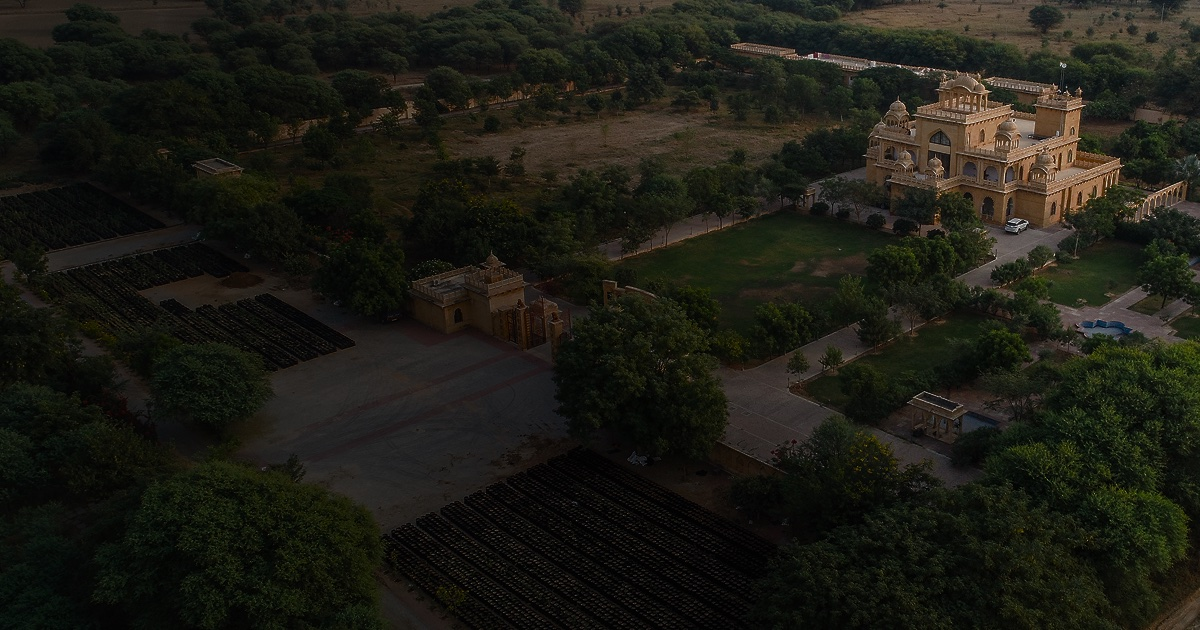
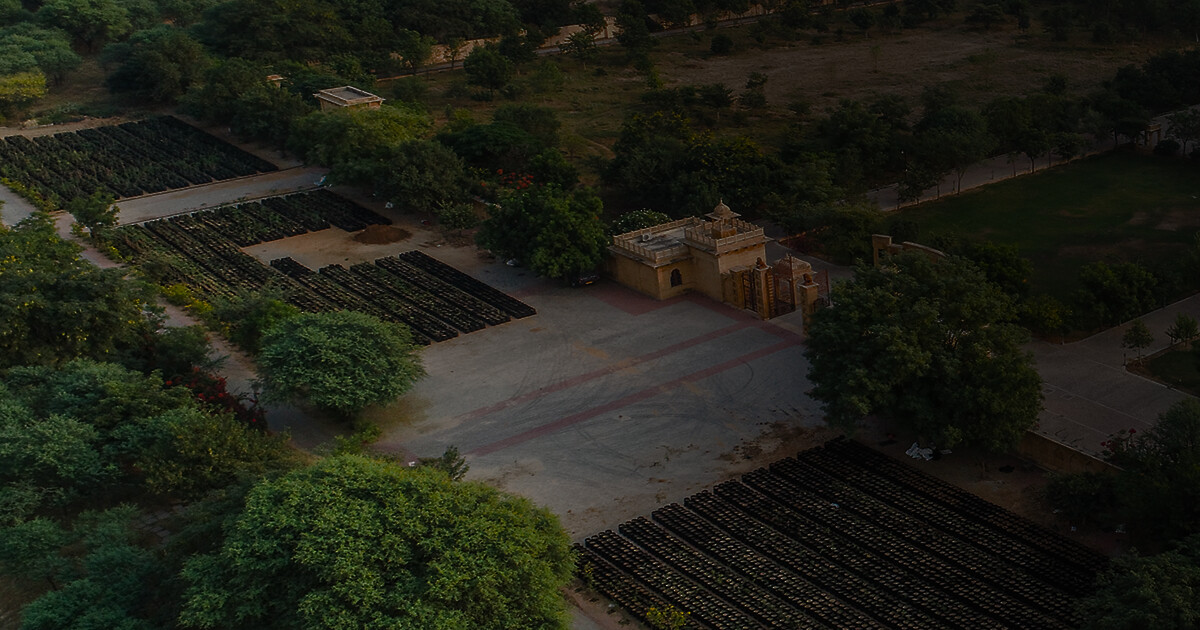
feat: refresh Field Station visuals and Basecamp release links

diff --git a/apps/web/app/[locale]/field-station/_content.ts b/apps/web/app/[locale]/field-station/_content.ts
@@ -25,7 +25,7 @@ export const OG_IMAGE = {
   src: '/campaigns/field-station/og-image.jpg',
   width: 1200,
   height: 630,
-  alt: 'Aerial view of the Field Station venue, a regenerative farm in Rajasthan',
+  alt: 'Aerial view of the Field Station entrance in Rajasthan',
 } as const
 
 /** In-page anchors the hero links to. */
@@ -148,7 +148,7 @@ export const ABOUT = {
   ],
   image: {
     src: `${IMAGE_DIR}/about.webp`,
-    alt: 'Aerial view of the Field Station farm and haveli in Rajasthan',
+    alt: 'Sunset reflected in a lake at the Field Station venue',
   },
 } as const
 
@@ -399,7 +399,7 @@ export const VENUE = {
   heading: 'About the Venue',
   image: {
     src: `${IMAGE_DIR}/venue.webp`,
-    alt: 'The haveli at the Field Station venue in Rajasthan',
+    alt: 'Before and after aerial views of the regenerative farm in Rajasthan',
   },
   blocks: [
     {
@@ -541,13 +541,7 @@ export const PARTNERS = {
   },
 } as const
 
-/**
- * Partners who join and amplify the residency, in alphabetical order. Devfolio
- * and ETHIndia come from their official brand repos (devfolioco/brand-assets,
- * ETHIndia/brand-assets) and link to their X accounts. Dhun's black-on-white
- * JPEG from the campaign doc has its white turned transparent for the light
- * background. More logos follow as partners join.
- */
+/** Partners who join and amplify the residency, in alphabetical order. */
 export const COALITION = {
   heading: 'Coalition / Community Partners',
   logos: [
@@ -578,6 +572,23 @@ export const COALITION = {
       src: `${IMAGE_DIR}/coalition/ethindia.png`,
       width: 940,
       height: 218,
+    },
+    {
+      name: 'Road to Devcon India',
+      href: 'https://devcon.org/en/road-to-devcon/',
+      destination: 'website',
+      src: `${IMAGE_DIR}/coalition/devcon.svg`,
+      width: 1900,
+      height: 1300,
+      displayHeight: 110,
+    },
+    {
+      name: 'Web3meetups',
+      href: 'https://web3meetups.xyz/',
+      destination: 'website',
+      src: `${IMAGE_DIR}/coalition/web3meetups.png`,
+      width: 1084,
+      height: 152,
     },
   ],
 } as const

diff --git a/apps/web/lib/__tests__/link-policy.test.ts b/apps/web/lib/__tests__/link-policy.test.ts
@@ -54,13 +54,13 @@ const communityIdeasHref = 'https://github.com/logos-co/ideas'
 const livingWithinTruthHref = 'https://www.youtube.com/watch?v=xy4uK20lFBQ'
 const logosGenealogyHref = '/media/article/a-genealogy-of-logos'
 const basecampReleaseHref =
-  'https://github.com/logos-co/logos-basecamp/releases#release-0.2.3'
+  'https://github.com/logos-co/logos-basecamp/releases#release-0.3.0'
 const basecampLinuxArm64DownloadHref =
-  'https://github.com/logos-co/logos-basecamp/releases/download/0.2.3/LogosBasecamp-Desktop-v0.2.3-aa2377-aarch64.AppImage'
+  'https://github.com/logos-co/logos-basecamp/releases/download/0.3.0/LogosBasecamp-Desktop-v0.3.0-bbe5da-aarch64.AppImage'
 const basecampLinuxX64DownloadHref =
-  'https://github.com/logos-co/logos-basecamp/releases/download/0.2.3/LogosBasecamp-Desktop-v0.2.3-aa2377-x86_64.AppImage'
+  'https://github.com/logos-co/logos-basecamp/releases/download/0.3.0/LogosBasecamp-Desktop-v0.3.0-bbe5da-x86_64.AppImage'
 const basecampMacArm64DownloadHref =
-  'https://github.com/logos-co/logos-basecamp/releases/download/0.2.3/LogosBasecamp-Desktop-v0.2.3-aa2377-aarch64.dmg'
+  'https://github.com/logos-co/logos-basecamp/releases/download/0.3.0/LogosBasecamp-Desktop-v0.3.0-bbe5da-aarch64.dmg'
 const runNodeCliDocsHref = 'https://docs.logos.co/'
 const docsLabels = new Set(['docs', 'documentation', 'view the docs'])
 const routeUsageAllowlist = new Set([

diff --git a/apps/web/constants/routes.ts b/apps/web/constants/routes.ts
@@ -135,13 +135,13 @@ export const EXTERNAL_URLS = {
   logosGenealogyArticle: '/media/article/a-genealogy-of-logos',
   lambdaPrizes: 'https://github.com/logos-co/lambda-prize/tree/master/prizes',
   basecampRelease:
-    'https://github.com/logos-co/logos-basecamp/releases#release-0.2.3',
+    'https://github.com/logos-co/logos-basecamp/releases#release-0.3.0',
   basecampLinuxArm64Download:
-    'https://github.com/logos-co/logos-basecamp/releases/download/0.2.3/LogosBasecamp-Desktop-v0.2.3-aa2377-aarch64.AppImage',
+    'https://github.com/logos-co/logos-basecamp/releases/download/0.3.0/LogosBasecamp-Desktop-v0.3.0-bbe5da-aarch64.AppImage',
   basecampLinuxX64Download:
-    'https://github.com/logos-co/logos-basecamp/releases/download/0.2.3/LogosBasecamp-Desktop-v0.2.3-aa2377-x86_64.AppImage',
+    'https://github.com/logos-co/logos-basecamp/releases/download/0.3.0/LogosBasecamp-Desktop-v0.3.0-bbe5da-x86_64.AppImage',
   basecampMacArm64Download:
-    'https://github.com/logos-co/logos-basecamp/releases/download/0.2.3/LogosBasecamp-Desktop-v0.2.3-aa2377-aarch64.dmg',
+    'https://github.com/logos-co/logos-basecamp/releases/download/0.3.0/LogosBasecamp-Desktop-v0.3.0-bbe5da-aarch64.dmg',
 
   // Research
   vacp2p: 'https://vac.dev',

diff --git a/apps/web/app/[locale]/field-station/_sections/about.tsx b/apps/web/app/[locale]/field-station/_sections/about.tsx
@@ -5,10 +5,6 @@ import { StatCardView } from '@/components/sections/home/social-proof-section'
 import { ABOUT, SECTION_IDS } from '../_content'
 import { LinkedText } from './atoms'
 
-/**
- * 490×652 portrait beside the copy column; the column (heading, lead copy,
- * stat cards) is vertically centred on the image, as in Figma.
- */
 export function About() {
   return (
     <section
@@ -16,13 +12,13 @@ export function About() {
       className="mt-28 scroll-mt-12 bg-brand-off-white px-3 lg:py-[127px]"
     >
       <div className="mx-auto flex max-w-[1175px] flex-col items-center gap-[54px] lg:flex-row">
-        <div className="relative aspect-[490/652] w-full max-w-[490px] shrink-0 overflow-hidden rounded-[20px]">
+        <div className="relative aspect-square w-full max-w-[490px] shrink-0 overflow-hidden rounded-[20px]">
           <Image
             src={ABOUT.image.src}
             alt={ABOUT.image.alt}
             fill
             sizes="(max-width: 1023px) calc(100vw - 24px), 490px"
-            className="object-cover"
+            className="object-cover object-[38%_center]"
           />
         </div>
 

diff --git a/apps/web/app/[locale]/field-station/_sections/coalition.tsx b/apps/web/app/[locale]/field-station/_sections/coalition.tsx
@@ -12,15 +12,14 @@ import { SectionHeading } from './atoms'
 const LOGO_HEIGHT = 28
 
 /**
- * Set like the FAQ block: the page's section heading, then the agenda cards'
- * outline tiles, four to a row on desktop so later partners slot in.
+ * Set like the FAQ block: the page's section heading, then outlined logo tiles.
  */
 export function Coalition() {
   return (
     <section>
       <ContentWidth>
         <SectionHeading>{COALITION.heading}</SectionHeading>
-        <ul className="mt-6 grid grid-cols-2 gap-3 md:grid-cols-4">
+        <ul className="mt-6 grid grid-cols-2 gap-3 md:grid-cols-3 lg:grid-cols-5">
           {COALITION.logos.map((logo) => {
             const height =
               'displayHeight' in logo ? logo.displayHeight : LOGO_HEIGHT

diff --git a/apps/web/app/[locale]/field-station/_sections/hero.tsx b/apps/web/app/[locale]/field-station/_sections/hero.tsx
@@ -42,9 +42,8 @@ export function Hero() {
             fill
             priority
             sizes="100vw"
-            className="object-cover object-bottom"
+            className="object-cover object-center"
           />
-          <div className="absolute inset-0 bg-linear-[46.88deg] from-black/60 from-[45.238%] to-black/0 to-[77.486%]" />
         </div>
       }
       footer={
